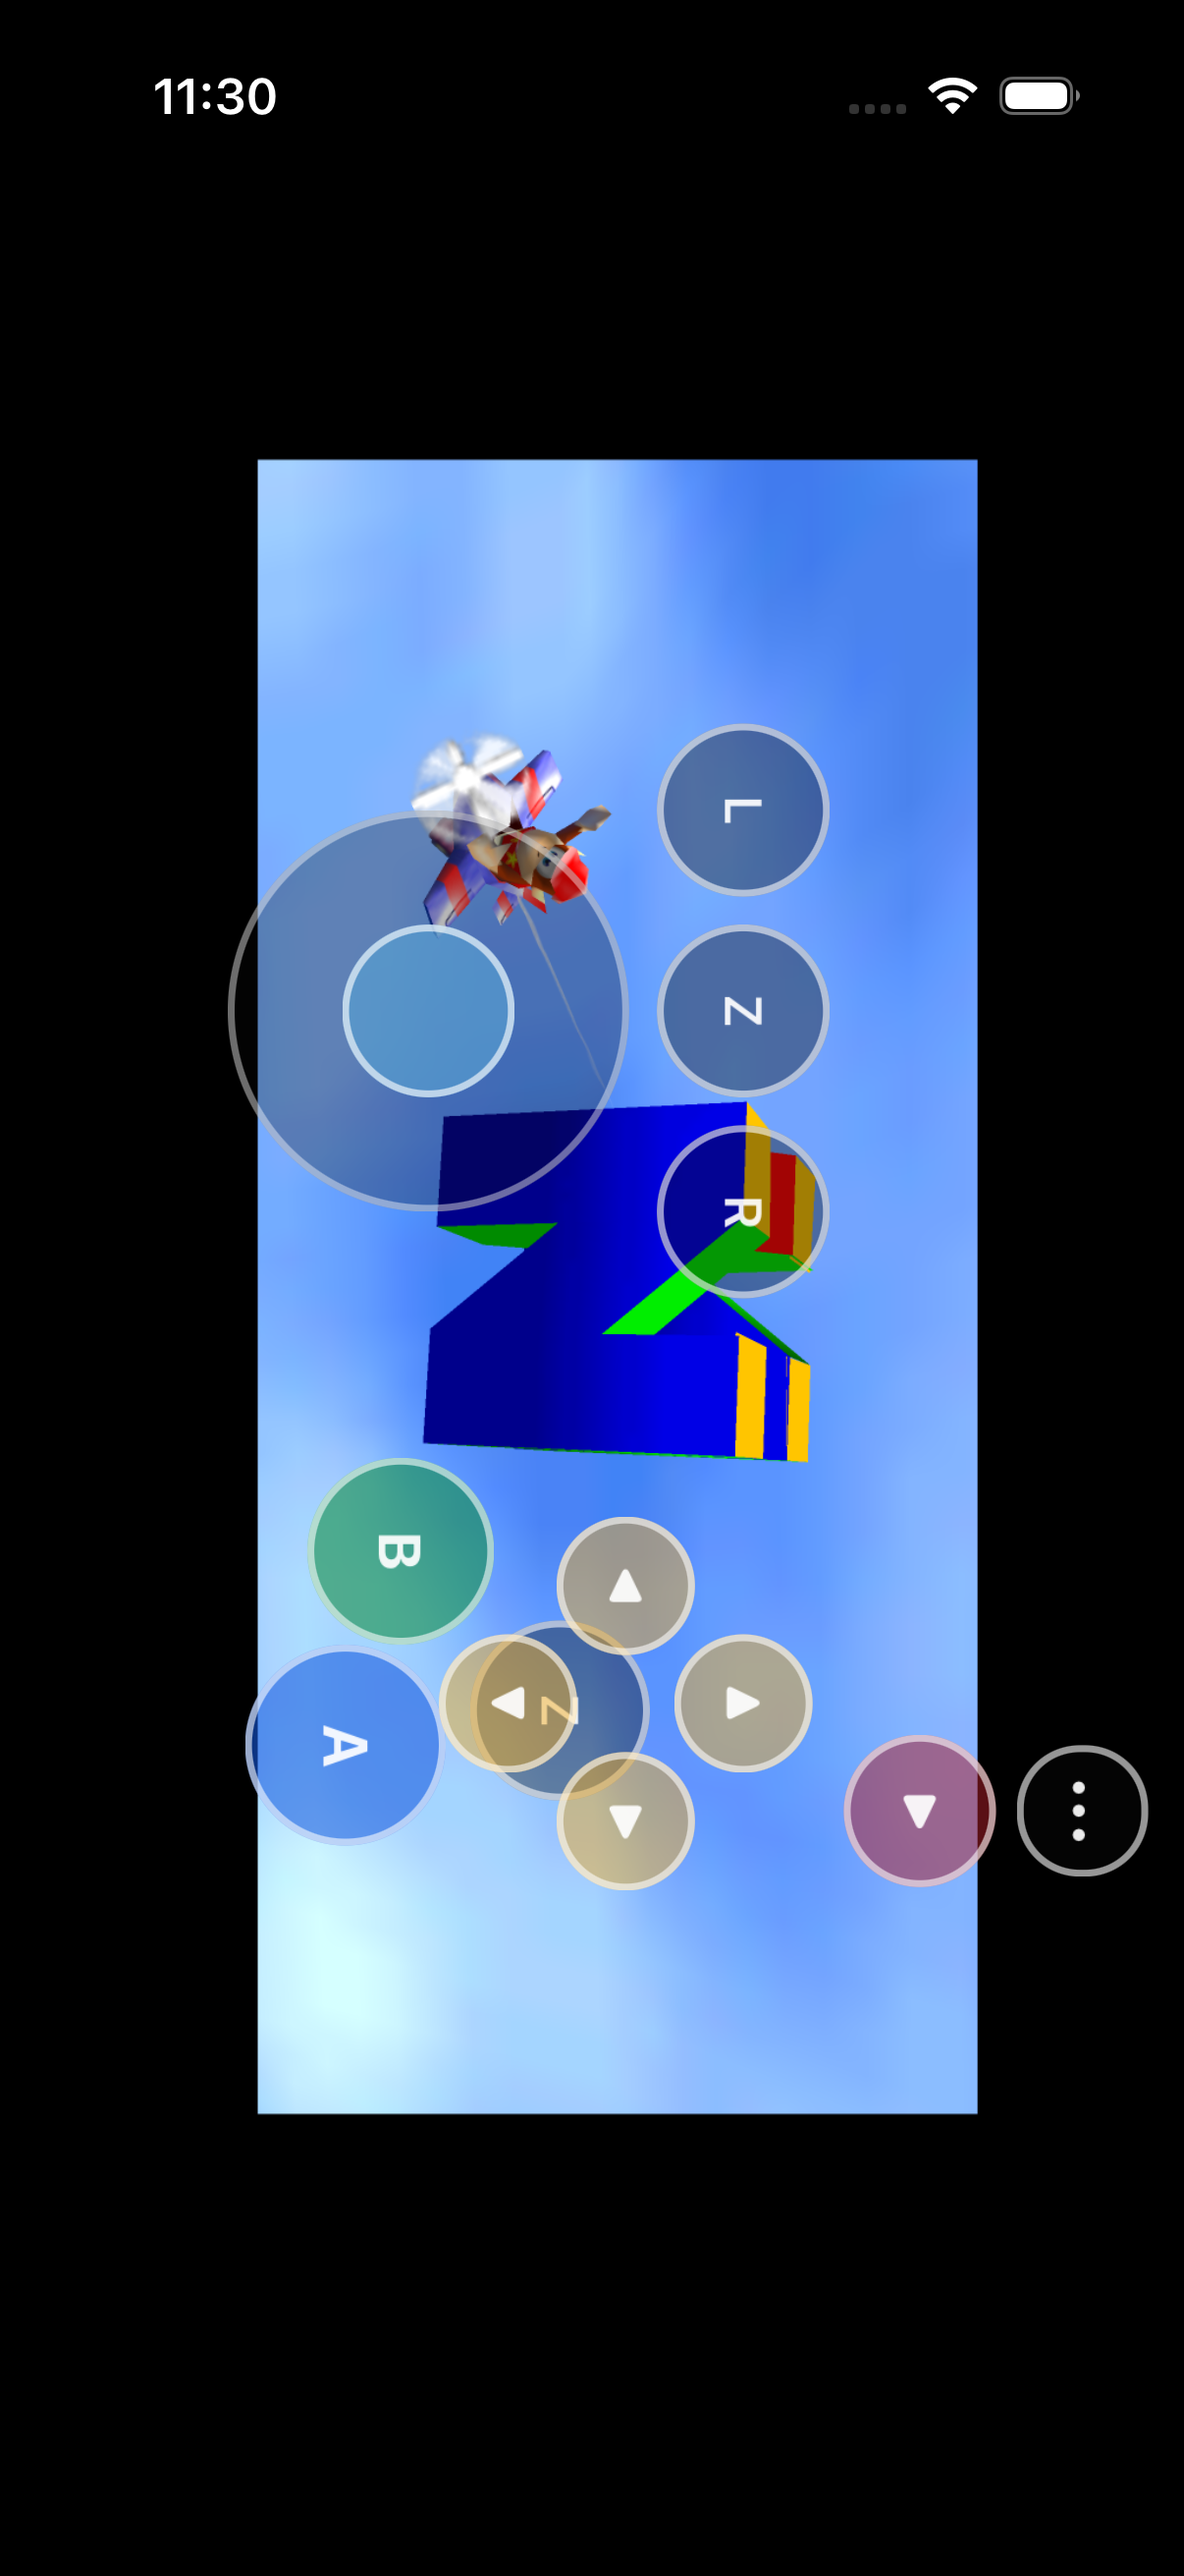
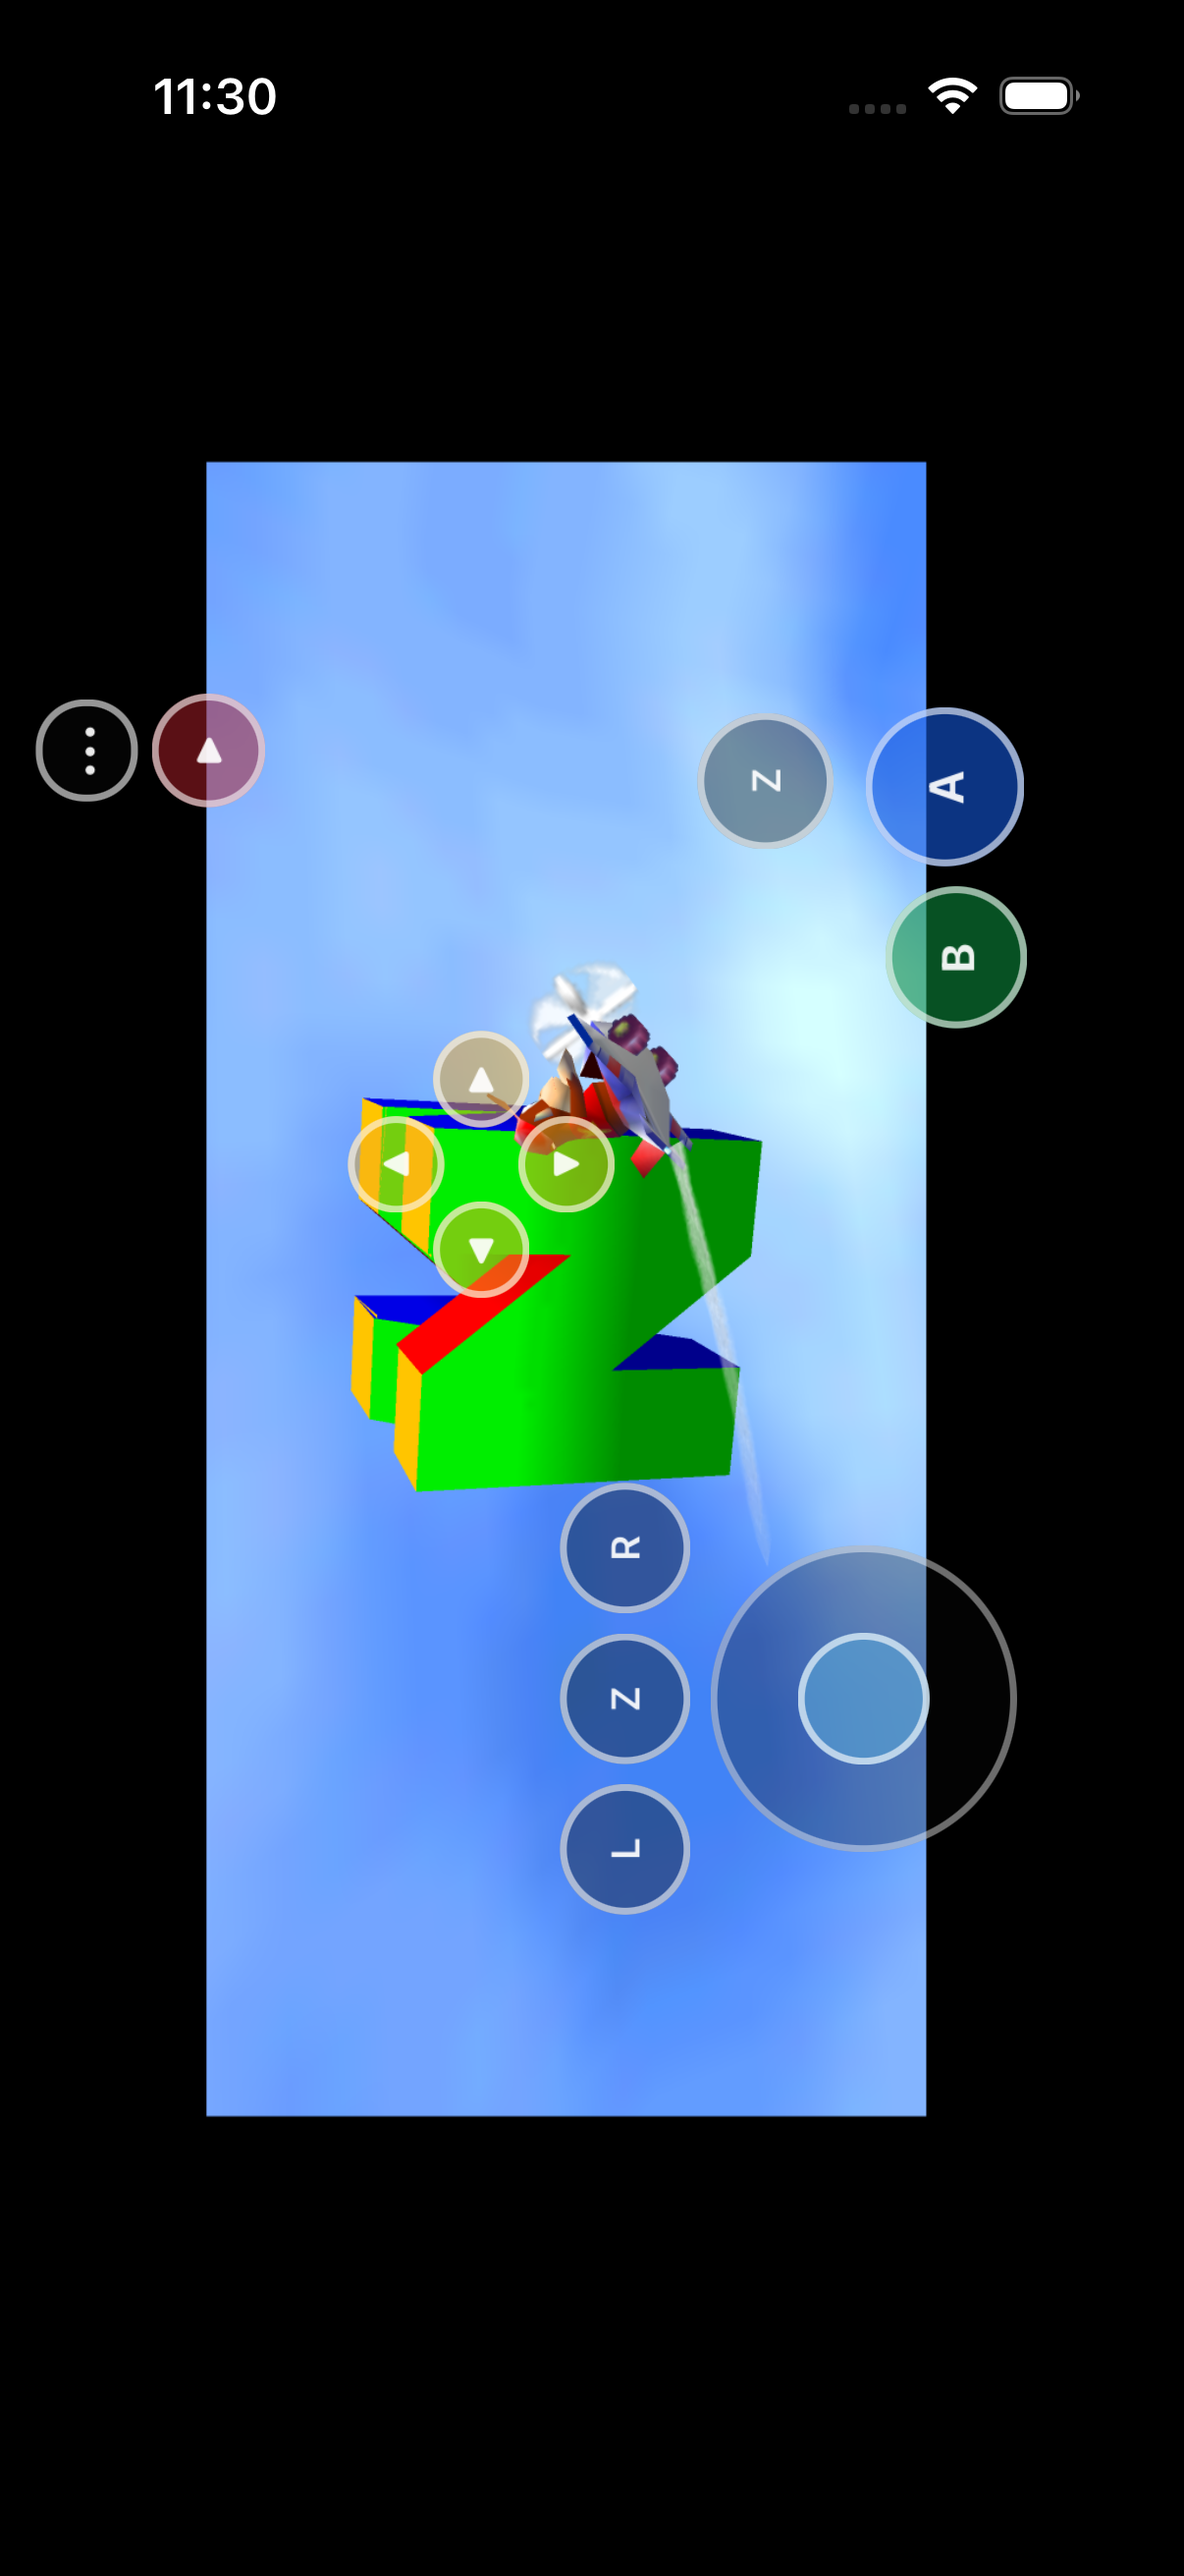
Fix phone landscape control overlap (C-pad vs right Z).
Short landscape heights made SpaghettiPad's absolute C-pad Y land on the
face Z. Rebuild the compact right rail as an A/B/Z stack with C-pad inboard
so buttons no longer nest.

diff --git a/ios/ChimpPadShell.mm b/ios/ChimpPadShell.mm
@@ -672,75 +672,100 @@ static CGRect CP_MenuFrame(CGRect bounds, UIEdgeInsets safe, CGFloat size) {
     BOOL compact = height < 560.0;
 
     if (compact) {
-        CGFloat left = safe.left + 10.0;
-        CGFloat right = safe.right + 10.0;
-        CGFloat top = safe.top + 36.0;
-        CGFloat shoulderHeight = 44.0;
+        /*
+         * Phone landscape is short (~320–430 pt). SpaghettiPad's absolute
+         * C-pad Y collides with the right Z on that height — visible as Z
+         * sitting inside the C diamond. Lay the right rail out as a single
+         * bottom-up stack (A/B/Z) and park C-pad inboard of the face, with
+         * Start/Menu on the top-right safe corner only.
+         */
+        CGFloat left = safe.left + 8.0;
+        CGFloat right = safe.right + 8.0;
+        CGFloat bottom = safe.bottom + 8.0;
+        /* Scale slightly on very short landscape so nothing overlaps. */
+        CGFloat s = MAX(0.82, MIN(1.0, height / 390.0));
 
-        CGFloat stickSize = 116.0;
+        CGFloat stickSize = 108.0 * s;
         CGPoint stickCenter =
-            CGPointMake(left + 88.0, height - safe.bottom - 88.0);
+            CGPointMake(left + stickSize * 0.58, height - bottom - stickSize * 0.55);
         self.stick.frame = CP_Frame(stickCenter, stickSize, stickSize);
 
-        CGFloat stickZSize = 50.0;
-        CGFloat stickZGap = 8.0;
+        CGFloat shoulder = 46.0 * s;
+        CGFloat shoulderGap = 7.0 * s;
         self.buttonZLeft.frame = CP_Frame(
             CGPointMake(stickCenter.x,
-                        CGRectGetMinY(self.stick.frame) - stickZGap - stickZSize * 0.5),
-            stickZSize, stickZSize);
+                        CGRectGetMinY(self.stick.frame) - shoulderGap - shoulder * 0.5),
+            shoulder, shoulder);
         self.buttonL.frame = CP_Frame(
-            CGPointMake(stickCenter.x - stickZSize - stickZGap,
+            CGPointMake(stickCenter.x - shoulder - shoulderGap,
                         CGRectGetMidY(self.buttonZLeft.frame)),
-            stickZSize, stickZSize);
+            shoulder, shoulder);
         self.buttonR.frame = CP_Frame(
-            CGPointMake(stickCenter.x + stickZSize + stickZGap,
+            CGPointMake(stickCenter.x + shoulder + shoulderGap,
                         CGRectGetMidY(self.buttonZLeft.frame)),
-            stickZSize, stickZSize);
+            shoulder, shoulder);
 
-        CGFloat rightCenterX = width - right - 58.0;
-        CGFloat faceCenterY = height - safe.bottom - 82.0;
-        CGFloat faceSize = 52.0;
-        CGFloat aSize = 58.0;
-        CGFloat bSize = 54.0;
-        self.buttonA.frame =
-            CP_Frame(CGPointMake(rightCenterX + 22.0, faceCenterY + 18.0), aSize, aSize);
+        /* Face rail: A outer-bottom, B inboard, Z above A — no C in this column. */
+        CGFloat aSize = 56.0 * s;
+        CGFloat bSize = 50.0 * s;
+        CGFloat zSize = 48.0 * s;
+        CGFloat aX = width - right - aSize * 0.55;
+        CGFloat aY = height - bottom - aSize * 0.55;
+        self.buttonA.frame = CP_Frame(CGPointMake(aX, aY), aSize, aSize);
         self.buttonB.frame =
-            CP_Frame(CGPointMake(rightCenterX - 34.0, faceCenterY + 2.0), bSize, bSize);
+            CP_Frame(CGPointMake(aX - bSize - 10.0 * s, aY + 4.0 * s), bSize, bSize);
         self.buttonZRight.frame =
-            CP_Frame(CGPointMake(rightCenterX + 12.0, faceCenterY - 44.0), faceSize,
-                     faceSize);
+            CP_Frame(CGPointMake(aX + 2.0 * s, aY - aSize * 0.55 - zSize * 0.55 - 6.0 * s),
+                     zSize, zSize);
 
-        CGFloat compactMenuSize = 38.0;
-        CGRect menuFrame = CP_MenuFrame(self.bounds, safe, compactMenuSize);
+        /* Menu + Start: top-right only (do not share the face column mid-band). */
+        CGFloat menuSize = 36.0 * s;
+        CGRect menuFrame = CP_MenuFrame(self.bounds, safe, menuSize);
         self.menuButton.frame = menuFrame;
-        CGFloat startGap = 6.0;
+        CGFloat startSize = 40.0 * s;
         self.buttonStart.frame = CP_Frame(
             CGPointMake(CGRectGetMidX(menuFrame),
-                        CGRectGetMaxY(menuFrame) + startGap + shoulderHeight * 0.5),
-            shoulderHeight, shoulderHeight);
+                        CGRectGetMaxY(menuFrame) + 4.0 + startSize * 0.5),
+            startSize, startSize);
 
-        CGFloat cSize = 40.0;
-        CGFloat cRadius = 34.0;
-        CGPoint cCenter = CGPointMake(width - safe.right - cRadius - cSize * 0.5 - 4.0,
-                                      top + shoulderHeight + 75.0);
-        self.cUp.frame = CP_Frame(CGPointMake(cCenter.x, cCenter.y - cRadius), cSize, cSize);
-        self.cDown.frame =
-            CP_Frame(CGPointMake(cCenter.x, cCenter.y + cRadius), cSize, cSize);
-        self.cLeft.frame =
-            CP_Frame(CGPointMake(cCenter.x - cRadius, cCenter.y), cSize, cSize);
-        self.cRight.frame =
-            CP_Frame(CGPointMake(cCenter.x + cRadius, cCenter.y), cSize, cSize);
+        /*
+         * C-pad inboard of the face rail, vertically between Start and Z so it
+         * never shares the Z/A column (the bug in the user screenshot).
+         */
+        CGFloat cSize = 34.0 * s;
+        CGFloat cRadius = 30.0 * s;
+        CGFloat cX = CGRectGetMinX(self.buttonB.frame) - cRadius - cSize * 0.35 - 6.0 * s;
+        CGFloat zTop = CGRectGetMinY(self.buttonZRight.frame);
+        CGFloat startBottom = CGRectGetMaxY(self.buttonStart.frame);
+        CGFloat cY = (startBottom + zTop) * 0.5;
+        /* Keep C clear of Start and Z if the band is tight. */
+        CGFloat cHalf = cRadius + cSize * 0.5;
+        if (cY - cHalf < startBottom + 4.0) {
+            cY = startBottom + 4.0 + cHalf;
+        }
+        if (cY + cHalf > zTop - 4.0) {
+            cY = zTop - 4.0 - cHalf;
+        }
+        /* Fallback: if still no room, park C left of B at face height. */
+        if (cY + cHalf > zTop - 2.0 || cY - cHalf < startBottom + 2.0) {
+            cX = CGRectGetMinX(self.buttonB.frame) - cRadius - cSize * 0.5 - 8.0 * s;
+            cY = CGRectGetMidY(self.buttonB.frame);
+        }
+        self.cUp.frame = CP_Frame(CGPointMake(cX, cY - cRadius), cSize, cSize);
+        self.cDown.frame = CP_Frame(CGPointMake(cX, cY + cRadius), cSize, cSize);
+        self.cLeft.frame = CP_Frame(CGPointMake(cX - cRadius, cY), cSize, cSize);
+        self.cRight.frame = CP_Frame(CGPointMake(cX + cRadius, cY), cSize, cSize);
 
         for (ChimpPadTouchButton *button in self.buttons) {
             button.titleLabel.font =
-                [UIFont systemFontOfSize:15.0 weight:UIFontWeightSemibold];
+                [UIFont systemFontOfSize:14.0 * s weight:UIFontWeightSemibold];
         }
         self.buttonA.titleLabel.font =
-            [UIFont systemFontOfSize:18.0 weight:UIFontWeightBold];
+            [UIFont systemFontOfSize:17.0 * s weight:UIFontWeightBold];
         self.buttonB.titleLabel.font =
-            [UIFont systemFontOfSize:17.0 weight:UIFontWeightBold];
+            [UIFont systemFontOfSize:16.0 * s weight:UIFontWeightBold];
         self.buttonStart.titleLabel.font =
-            [UIFont systemFontOfSize:15.0 weight:UIFontWeightBold];
+            [UIFont systemFontOfSize:14.0 * s weight:UIFontWeightBold];
         return;
     }
 
